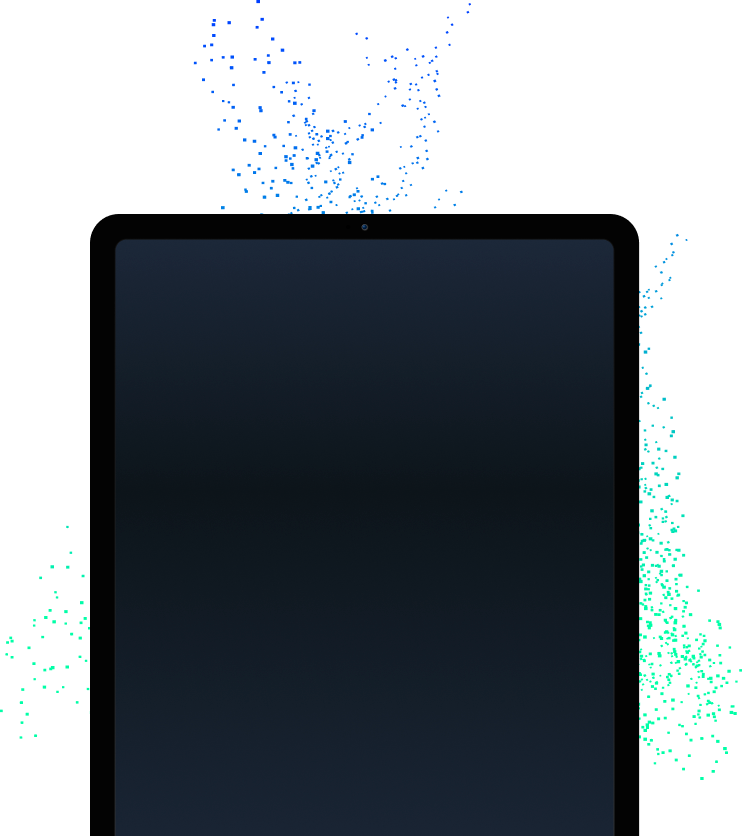
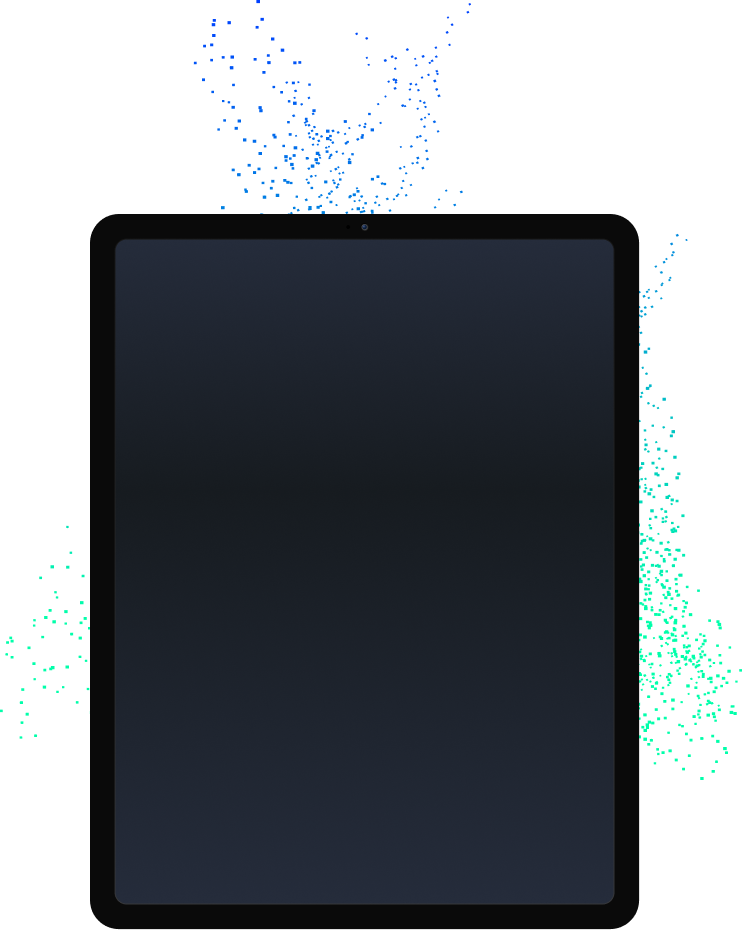
feat: responsive adjustments in page sections

diff --git a/src/styles/pages/_homepage.scss b/src/styles/pages/_homepage.scss
@@ -1,5 +1,6 @@
 @import "../mixins/generate-hero.mixin";
 
+/** Hero Section **/
 .hero {
   background: rgb(9, 21, 35);
   background: linear-gradient(
@@ -7,10 +8,12 @@
     rgba(9, 21, 35, 1) 0%,
     rgba(14, 37, 63, 1) 100%
   );
+  height: 844px;
+  overflow: hidden;
 
   &__wrapper {
     @include generateHero(".hero", "dark");
-
+    max-width: 1200px;
     @media screen and (max-width: 992px) {
       padding-top: 120px;
       text-align: center;
@@ -19,7 +22,7 @@
 
   &__actions {
     display: flex;
-    gap: 20px;
+    gap: 32px;
     align-items: center;
 
     @media screen and (max-width: 992px) {
@@ -30,17 +33,65 @@
   &__text {
     font-size: 20px;
     max-width: 490px;
+    margin-right: 42px;
+
+    @media screen and (max-width: 992px) {
+      margin-right: 0;
+    }
   }
 }
 
+/** About Section **/
 .about {
   background-color: $color-neutral-white;
   color: $color-neutral-dark;
   @include generateHero(".about", "light");
   padding-top: 4rem;
   padding-bottom: 4rem;
+  height: 785px;
+  color: #081523;
+
+  .typography {
+    &--big {
+      font-size: 48px;
+      line-height: 58px;
+    }
+    &--paragraph {
+      font-weight: 600;
+    }
+  }
+
+  &__image {
+    display: flex;
+    align-items: center;
+
+    img {
+      width: 100%;
+      height: auto;
+    }
+  }
+
+  &__text {
+    margin-left: 42px;
+    width: 505px;
+  }
+
+  @media screen and (max-width: 992px) {
+    height: 100%;
+
+    &__text {
+      margin-left: 0;
+      width: 100%;
+    }
+
+    .typography--paragraph {
+      margin-bottom: 0;
+    }
+  }
+
 }
 
+/** Contact Us Section **/
 .contact-us {
   padding-top: 4rem;
   padding-bottom: 4rem;
@@ -62,7 +113,7 @@
   background-size: cover;
   background-repeat: no-repeat;
   background-position: center;
-  height: 570px;
+  height: 478px;
   text-align: center;
   display: flex;
   justify-content: center;

diff --git a/src/styles/components/_nav-menu.scss b/src/styles/components/_nav-menu.scss
@@ -1,17 +1,27 @@
 .nav-menu {
+  width: 100%;
+  position: absolute;
+  
   &__menu {
     display: flex;
     justify-content: space-between;
-    padding: 56px;
-    position: absolute;
-    width: 100%;
+    padding: 56px 56px 0 96px;
+    max-width: 1440px;
+    margin: 0 auto;
+    position: relative;
+
 
     &-button {
       background-color: transparent;
       border: 0;
 
+      &, &--close {
+        cursor: pointer;
+      }
+
       &--close {
         place-self: flex-end;
+        padding: 0;
       }
     }
 
@@ -22,15 +32,25 @@
       border: 0;
       display: none;
       position: absolute;
-      right: 28px;
+      right: 18px;
+      top: 20px;
+      width: 214px;
+      max-height: 440px;
+      overflow-y: auto;
+      word-break: break-word;
+
+      &:last-child {
+        padding-bottom: 0;
+      }
 
       ul li {
         list-style-type: none;
-        padding: 8px;
+        margin: 48px 0;
         a {
           color: $color-neutral-white;
           text-decoration: none;
           font-weight: 700;
+          font-size: 20px;
         }
       }
     }

diff --git a/src/styles/mixins/_generate-hero.mixin.scss b/src/styles/mixins/_generate-hero.mixin.scss
@@ -6,16 +6,9 @@
 @mixin generateHero($className, $theme) {
   display: grid;
   grid-template-columns: repeat(12, minmax(0, 1fr));
-  max-width: 1440px;
+  max-width: 1400px;
   margin: 0 auto;
-  gap: 36px;
   height: 100%;
-
-  #{$className}__image {
-    img {
-      width: 100%;
-    }
-  }
 
   #{$className}__text,
   #{$className}__image {
@@ -27,12 +20,12 @@
     &--small {
       margin-bottom: 14px;
     }
-
-    &--big,
-    &--paragraph {
+    &--big {
       margin-bottom: 28px;
     }
-
+    &--paragraph {
+      margin-bottom: 52px;
+    }
     &--paragraph {
       font-size: 20px;
     }
@@ -66,6 +59,15 @@
     display: flex;
     flex-direction: column;
     grid-template-columns: none;
+
+    #{$className}__image {
+      img {
+        width: 100%;
+        height: 100%;
+        display: block;
+        margin: 0 auto;
+      }
+    }
 
     #{$className}__text,
     #{$className}__image {

diff --git a/src/styles/components/_button.scss b/src/styles/components/_button.scss
@@ -2,13 +2,13 @@
   background-color: transparent;
   color: $color-neutral-white;
   border-color: $color-neutral-white;
-  font-size: 16px;
+  font-size: 20px;
   text-decoration: none;
   font-weight: 700;
   &__primary {
     border: 1px solid;
     border-radius: 36px;
-    padding: 16px 20px;
+    padding: 19px 25px;
   }
 
   &__secondary {

diff --git a/src/styles/_typography.scss b/src/styles/_typography.scss
@@ -8,11 +8,12 @@
   &--big {
     font-size: 64px;
     font-weight: bold;
-    line-height: 74px;
+    line-height: 72px;
   }
 
   &--paragraph {
-    line-height: 34px;
+    line-height: 35px;
+    letter-spacing: 0.09px;
   }
 
   @media screen and (max-width: 1180px) {

diff --git a/header.php b/header.php
@@ -6,7 +6,7 @@
     <meta name="description" content="<?php echo get_bloginfo("description"); ?>">
     <link rel="preconnect" href="https://fonts.googleapis.com">
     <link rel="preconnect" href="https://fonts.gstatic.com" crossorigin>
-    <link href="https://fonts.googleapis.com/css2?family=Cousine:wght@400;700&family=Montserrat:wght@400;700&display=swap" rel="stylesheet">
+    <link href="https://fonts.googleapis.com/css2?family=Cousine:wght@400;700&family=Montserrat:wght@400;600;700&display=swap" rel="stylesheet">
     <title><?php echo get_bloginfo("name"); ?> - <?php echo get_bloginfo(
      "description"
  ); ?></title>
@@ -14,24 +14,26 @@
 </head>
 
 <body>
-    <div class="nav-menu__menu">
-        <img width="171" height="40" alt="Company's logo image" class="nav-menu__logo" src="<?php echo get_bloginfo(
-            "template_url"
-        ); ?>/assets/icons/site_Logo.svg" />
-            <button id="nav-main-menu-button" class="nav-menu__menu-button" aria-label="Open menu">
-                <img width="37" height="28" alt="" aria-hidden="true" src="<?php echo get_bloginfo(
-                    "template_url"
-                ); ?>/assets/icons/Icon_Menu.svg"/>
-            </button>
-            <div id="nav-main-menu-items" class="nav-menu__menu-items">
-            <button id="nav-main-menu-button--close" class="nav-menu__menu-button nav-menu__menu-button--close" aria-label="Close the menu">
-                <img width="49" height="40" alt="" aria-hidden="true" src="<?php echo get_bloginfo(
-                    "template_url"
-                ); ?>/assets/icons/Icon_Close.svg"/>
-            </button>
-                <?php wp_nav_menu([
-                    "theme_location" => "main_nav_menu",
-                    "container" => "nav",
-                ]); ?>
-            </div>
+    <header class="nav-menu">
+        <div class="nav-menu__menu">
+            <img width="171" height="40" alt="Company's logo image" class="nav-menu__logo" src="<?php echo get_bloginfo(
+                "template_url"
+            ); ?>/assets/icons/site_Logo.svg" />
+                <button id="nav-main-menu-button" class="nav-menu__menu-button" aria-label="Open menu">
+                    <img width="37" height="28" alt="" aria-hidden="true" src="<?php echo get_bloginfo(
+                        "template_url"
+                    ); ?>/assets/icons/Icon_Menu.svg"/>
+                </button>
+                <div id="nav-main-menu-items" class="nav-menu__menu-items">
+                <button id="nav-main-menu-button--close" class="nav-menu__menu-button nav-menu__menu-button--close" aria-label="Close the menu">
+                    <img width="49" height="40" alt="" aria-hidden="true" src="<?php echo get_bloginfo(
+                        "template_url"
+                    ); ?>/assets/icons/Icon_Close.svg"/>
+                </button>
+                    <?php wp_nav_menu([
+                        "theme_location" => "main_nav_menu",
+                        "container" => "nav",
+                    ]); ?>
+                </div>
+        </header>
     </div>

diff --git a/front-page.php b/front-page.php
@@ -17,7 +17,7 @@
                 <source srcset="<?php echo get_bloginfo(
                 "template_url"
             ); ?>/assets/images/Device_Ipad.webp" type="image/webp">
-                <img width="702" height="790" alt="A photo of an iPad device" src="<?php echo get_bloginfo(
+                <img alt="A photo of an iPad device" src="<?php echo get_bloginfo(
                 "template_url"
             ); ?>/assets/images/Device_Ipad.png"/>
             </picture>
@@ -25,16 +25,14 @@
     </div>
 </section>
 <section class="about">
-    <div class="about__image">
-        <picture>
-            <source srcset="<?php echo get_bloginfo(
-                "template_url"
-            ); ?>/assets/images/Device_Mobile.webp" type="image/webp">
-                <img width="619" height="596"  alt="A photo of an iPhone device showing HTML tags" src="<?php echo get_bloginfo(
-                "template_url"
-            ); ?>/assets/images/Device_Mobile.png"/>
-        </picture>
-    </div>
+    <picture class="about__image">
+        <source srcset="<?php echo get_bloginfo(
+            "template_url"
+        ); ?>/assets/images/Device_Mobile.webp" type="image/webp">
+            <img width="619" height="596"  alt="A photo of an iPhone device showing HTML tags" src="<?php echo get_bloginfo(
+            "template_url"
+        ); ?>/assets/images/Device_Mobile.png"/>
+    </picture>
     <div class="about__text">
         <p class="typography--small">Eyebrow</p>
         <h2 class="typography--big">Generating relevant & engaging content</h1>
